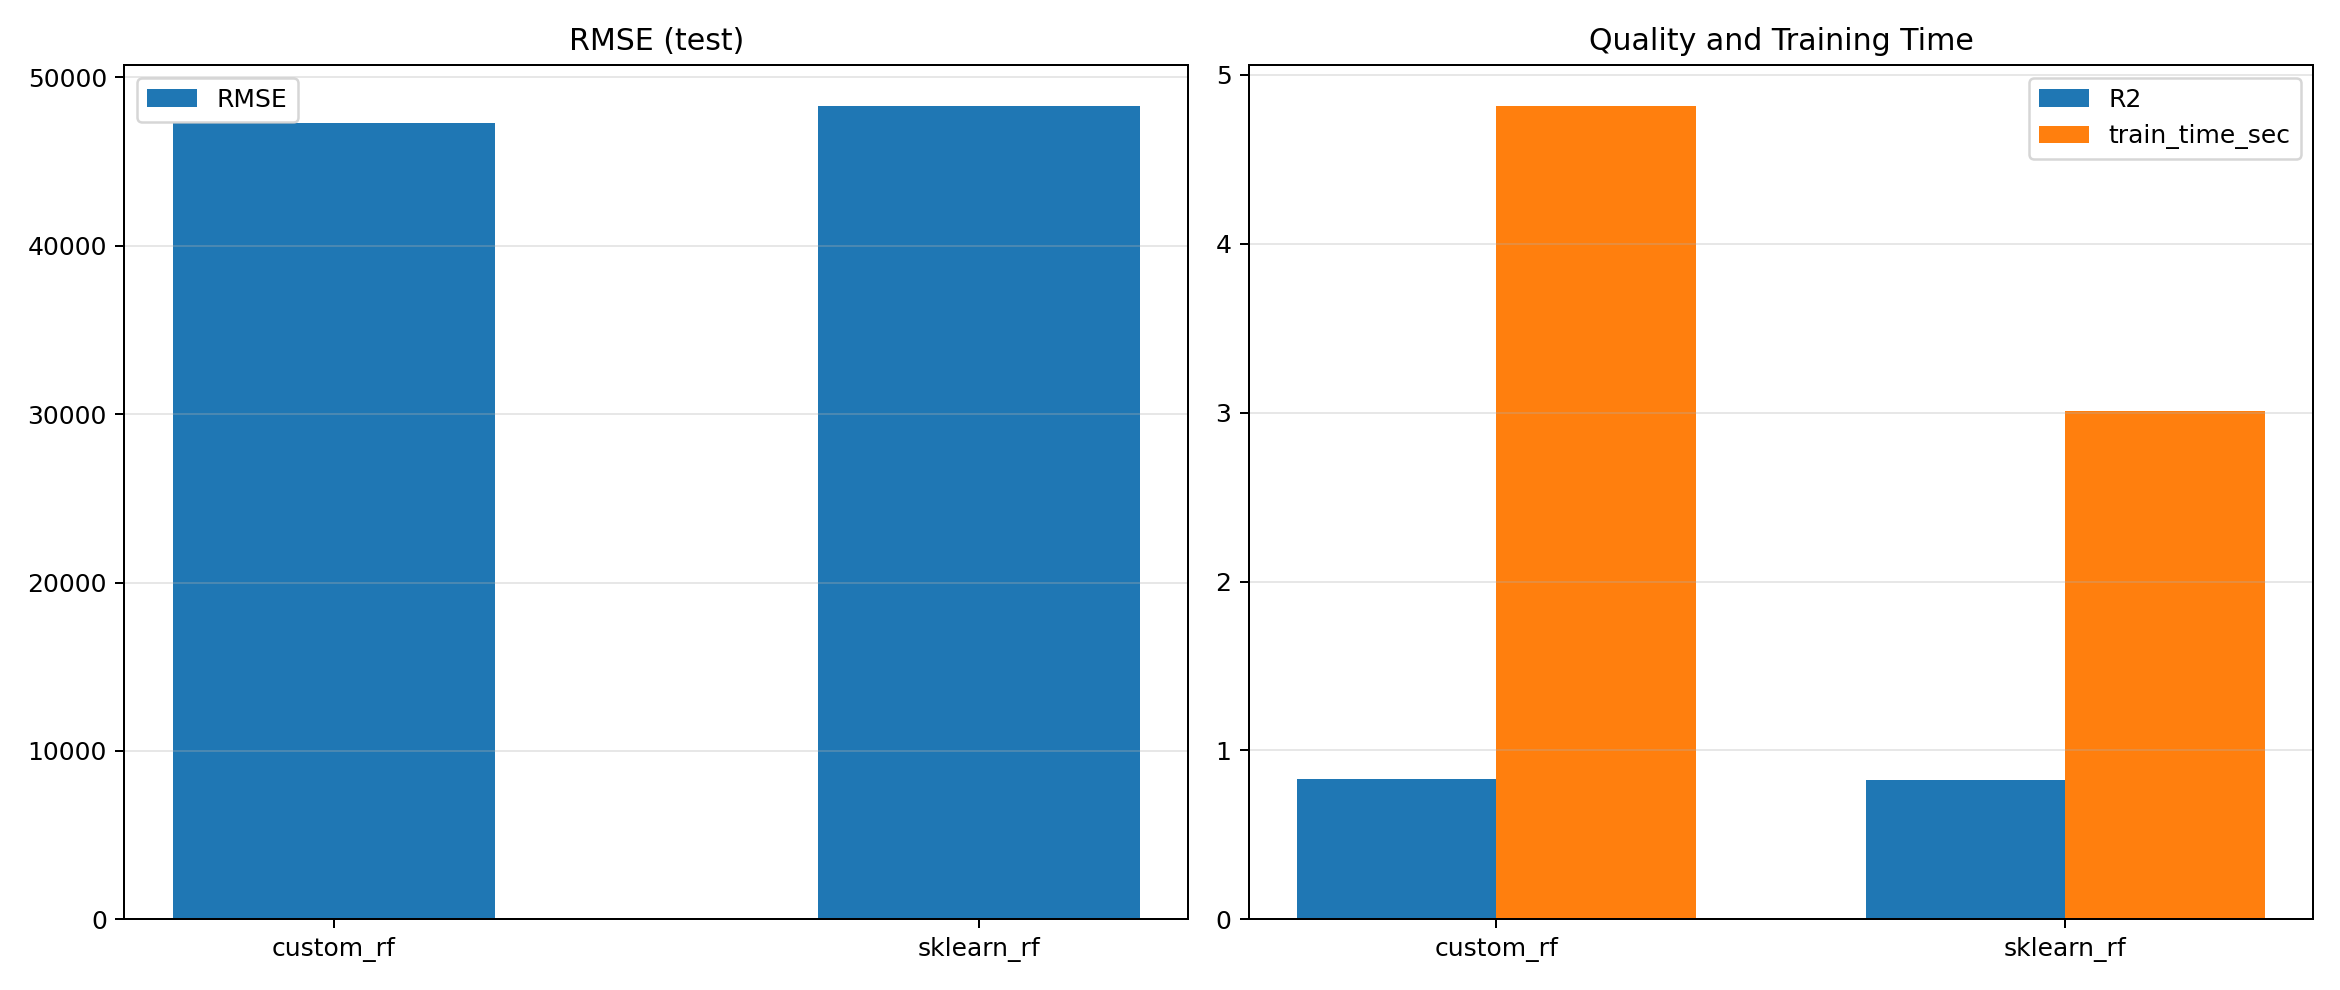
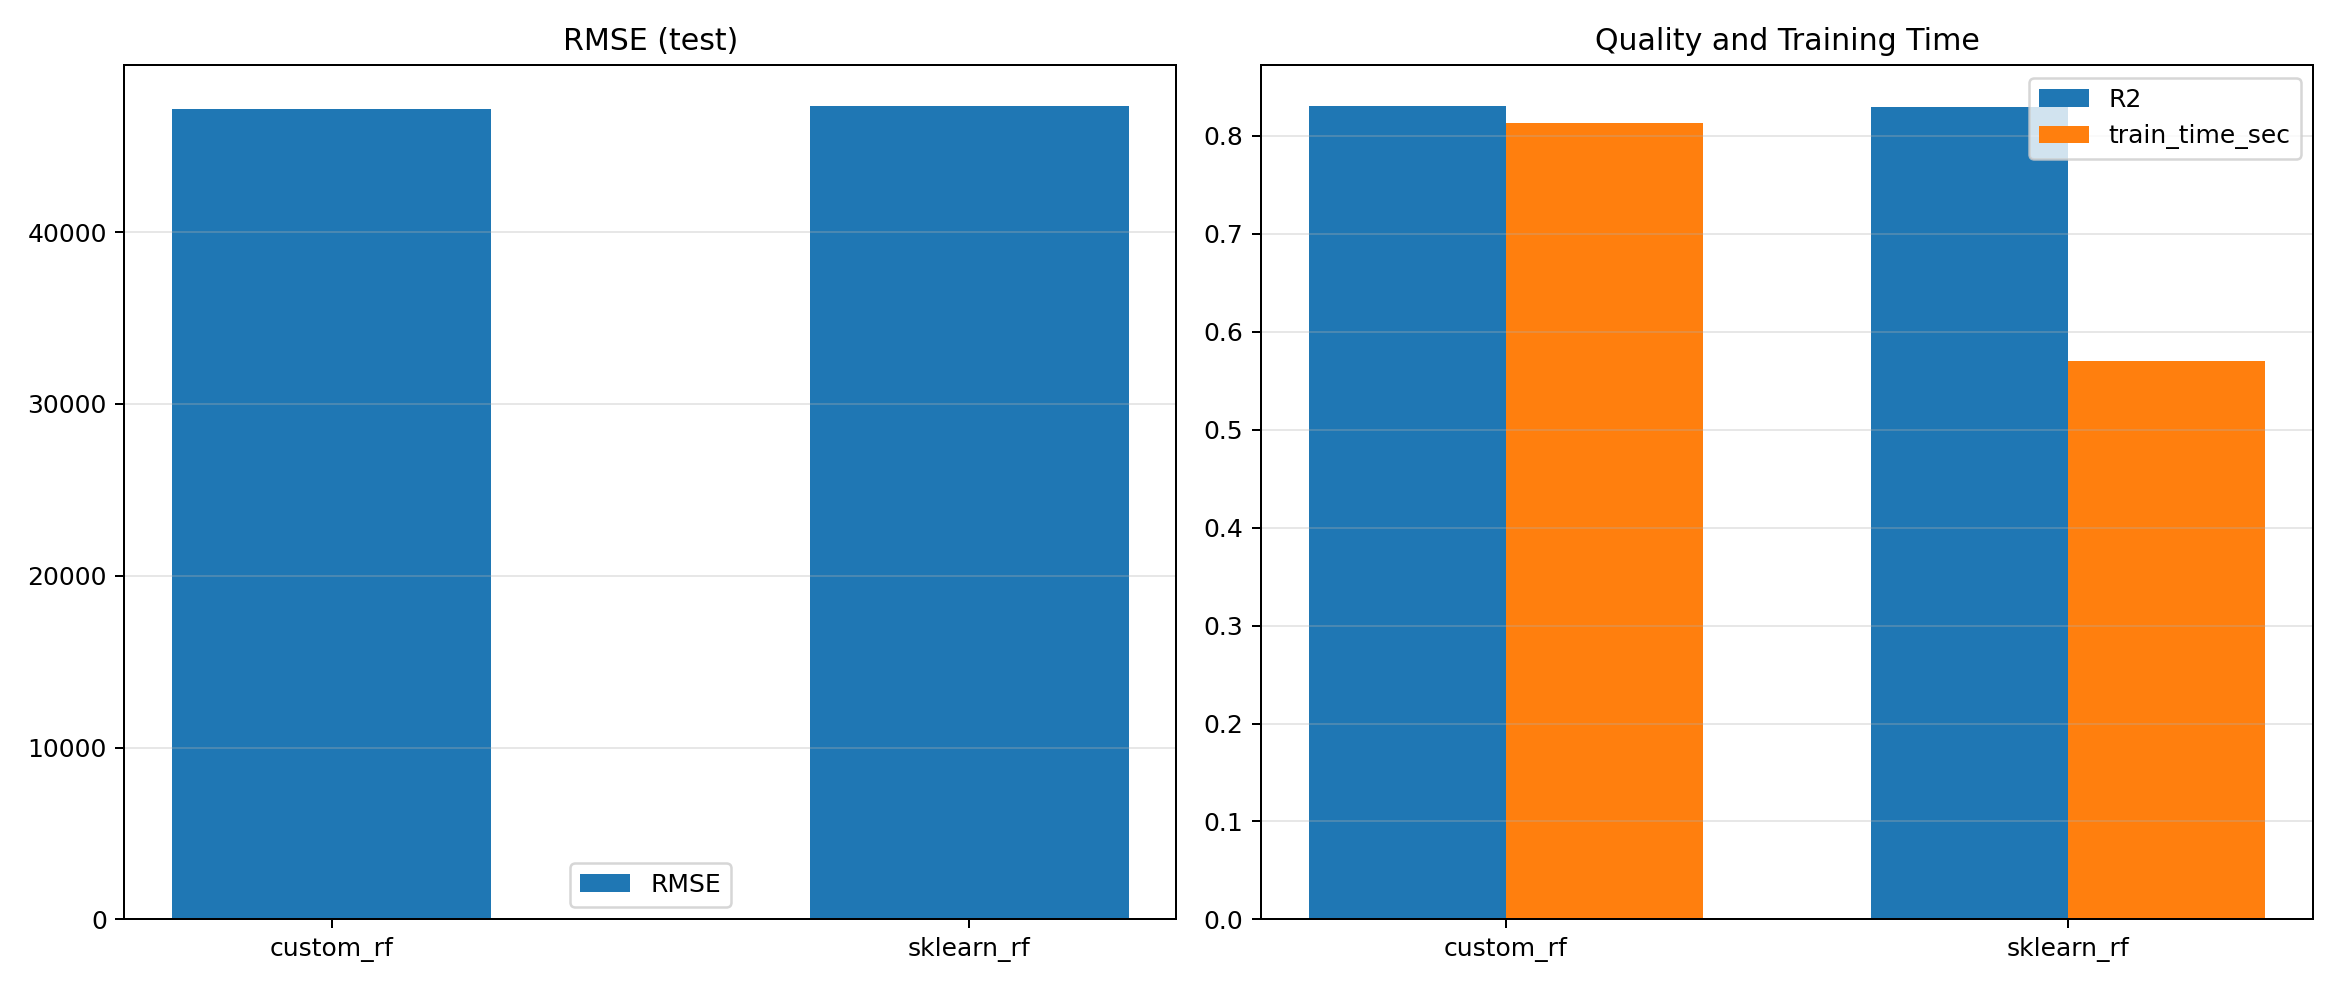
fix-features

diff --git a/students/shinyakov-ad/lab2/src/model/random_forest.py b/students/shinyakov-ad/lab2/src/model/random_forest.py
@@ -11,8 +11,6 @@ from sklearn.tree import DecisionTreeRegressor
 @dataclass
 class TreeState:
     tree: DecisionTreeRegressor
-    feature_indices: np.ndarray
-    bootstrap_indices: np.ndarray
     oob_indices: np.ndarray
 
 
@@ -24,7 +22,6 @@ class RandomForestRegressorCustom(BaseEstimator, RegressorMixin):
         max_features: int | float | str | None = "sqrt",
         min_samples_split: int = 2,
         min_samples_leaf: int = 1,
-        bootstrap: bool = True,
         oob_score: bool = True,
         random_state: int | None = 42,
     ) -> None:
@@ -33,7 +30,6 @@ class RandomForestRegressorCustom(BaseEstimator, RegressorMixin):
         self.max_features = max_features
         self.min_samples_split = min_samples_split
         self.min_samples_leaf = min_samples_leaf
-        self.bootstrap = bootstrap
         self.oob_score = oob_score
         self.random_state = random_state
 
@@ -45,23 +41,22 @@ class RandomForestRegressorCustom(BaseEstimator, RegressorMixin):
         self._rng = np.random.default_rng(self.random_state)
         self.trees_: list[TreeState] = []
 
-        for tree_idx in range(self.n_estimators):
-            feature_indices = self._sample_features()
+        for i in range(self.n_estimators):
             bootstrap_indices, oob_indices = self._sample_rows(X.shape[0])
 
             tree = DecisionTreeRegressor(
                 max_depth=self.max_depth,
-                min_samples_split=self.min_samples_split,
                 min_samples_leaf=self.min_samples_leaf,
-                random_state=None if self.random_state is None else self.random_state + tree_idx,
+                min_samples_split=self.min_samples_split,
+                max_features=self.max_features,
+                random_state=None if self.random_state is None else self.random_state + i,
             )
-            tree.fit(X[bootstrap_indices][:, feature_indices], y[bootstrap_indices])
+            
+            tree.fit(X[bootstrap_indices], y[bootstrap_indices])
 
             self.trees_.append(
                 TreeState(
                     tree=tree,
-                    feature_indices=feature_indices,
-                    bootstrap_indices=bootstrap_indices,
                     oob_indices=oob_indices,
                 )
             )
@@ -80,7 +75,7 @@ class RandomForestRegressorCustom(BaseEstimator, RegressorMixin):
         X = np.asarray(X)
         predictions = np.column_stack(
             [
-                state.tree.predict(X[:, state.feature_indices])
+                state.tree.predict(X)
                 for state in self.trees_
             ]
         )
@@ -103,34 +98,12 @@ class RandomForestRegressorCustom(BaseEstimator, RegressorMixin):
 
         return importances
 
-    def _sample_features(self):
-        feature_count = self._resolve_max_features(self.n_features_in_)
-        return np.sort(self._rng.choice(self.n_features_in_, size=feature_count, replace=False))
-
     def _sample_rows(self, n_rows: int):
-        if not self.bootstrap:
-            bootstrap_indices = np.arange(n_rows)
-            oob_indices = np.array([], dtype=int)
-            return bootstrap_indices, oob_indices
-
         bootstrap_indices = self._rng.integers(0, n_rows, size=n_rows)
         in_bag_mask = np.zeros(n_rows, dtype=bool)
         in_bag_mask[bootstrap_indices] = True
         oob_indices = np.flatnonzero(~in_bag_mask)
         return bootstrap_indices, oob_indices
-
-    def _resolve_max_features(self, n_features: int):
-        if self.max_features is None:
-            return n_features
-        if self.max_features == "sqrt":
-            return max(1, int(np.sqrt(n_features)))
-        if self.max_features == "log2":
-            return max(1, int(np.log2(n_features)))
-        if isinstance(self.max_features, float):
-            return max(1, int(np.ceil(self.max_features * n_features)))
-        if isinstance(self.max_features, int):
-            return min(n_features, max(1, self.max_features))
-        raise ValueError(f"Unsupported max_features={self.max_features}")
 
     def _compute_oob_predictions(self, X):
         oob_sum = np.zeros(X.shape[0], dtype=float)
@@ -139,7 +112,7 @@ class RandomForestRegressorCustom(BaseEstimator, RegressorMixin):
         for state in self.trees_:
             if state.oob_indices.size == 0:
                 continue
-            preds = state.tree.predict(X[state.oob_indices][:, state.feature_indices])
+            preds = state.tree.predict(X[state.oob_indices])
             oob_sum[state.oob_indices] += preds
             oob_count[state.oob_indices] += 1
 